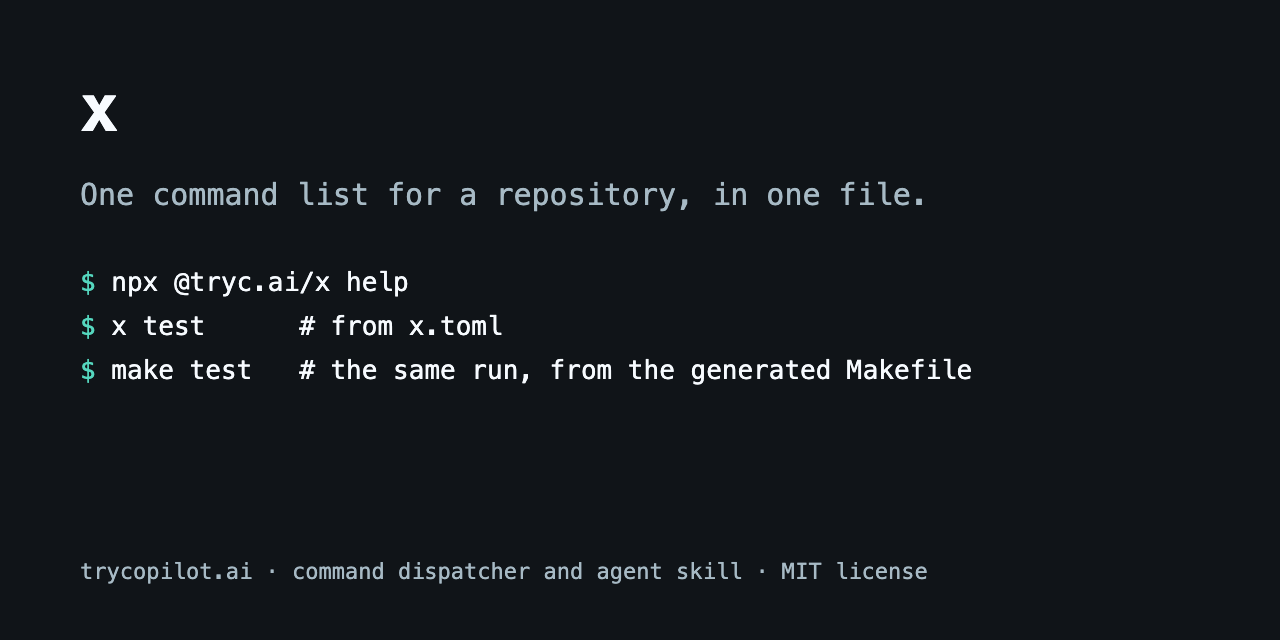
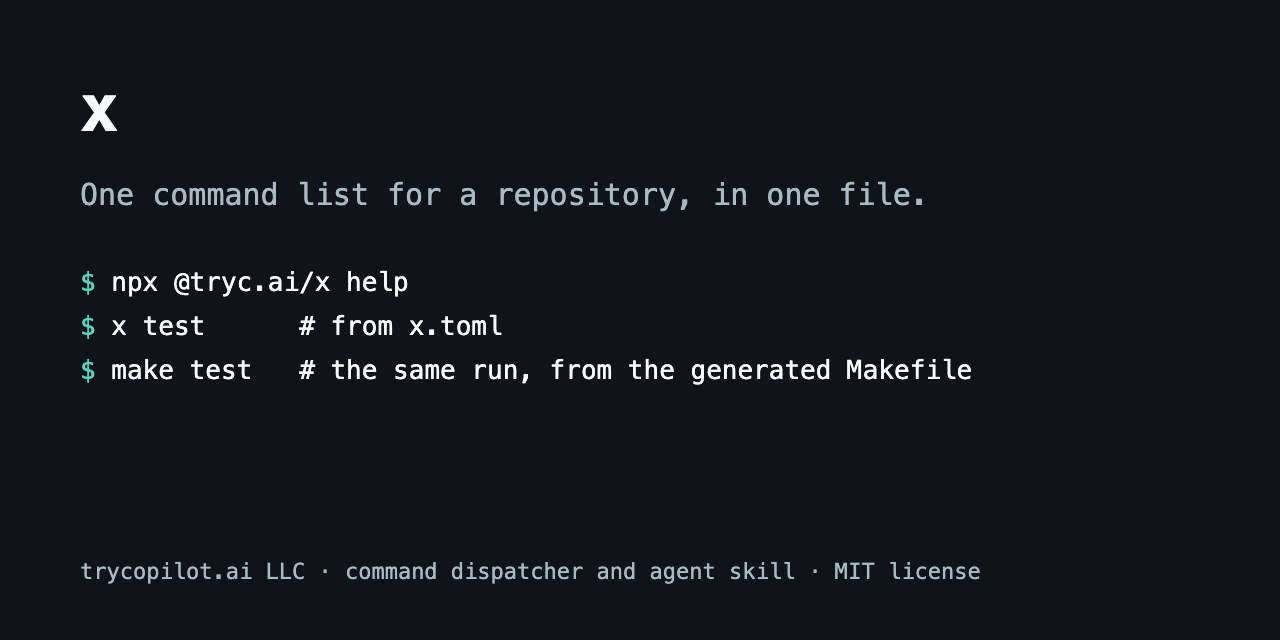
Name trycopilot.ai LLC in footers, notices and remaining author fields
Follow-up to the LLC naming: the social-preview footer, the independence notice and the author fields that the first pass missed now say trycopilot.ai LLC.

Changed region(s): [[0.1875, 0.875, 0.7812, 0.9062]]

diff --git a/assets/social-preview.html b/assets/social-preview.html
@@ -67,7 +67,7 @@
       </div>
     </div>
     <div class="foot">
-      trycopilot.ai · command dispatcher and agent skill ·
+      trycopilot.ai LLC · command dispatcher and agent skill ·
       MIT license
     </div>
   </body>
